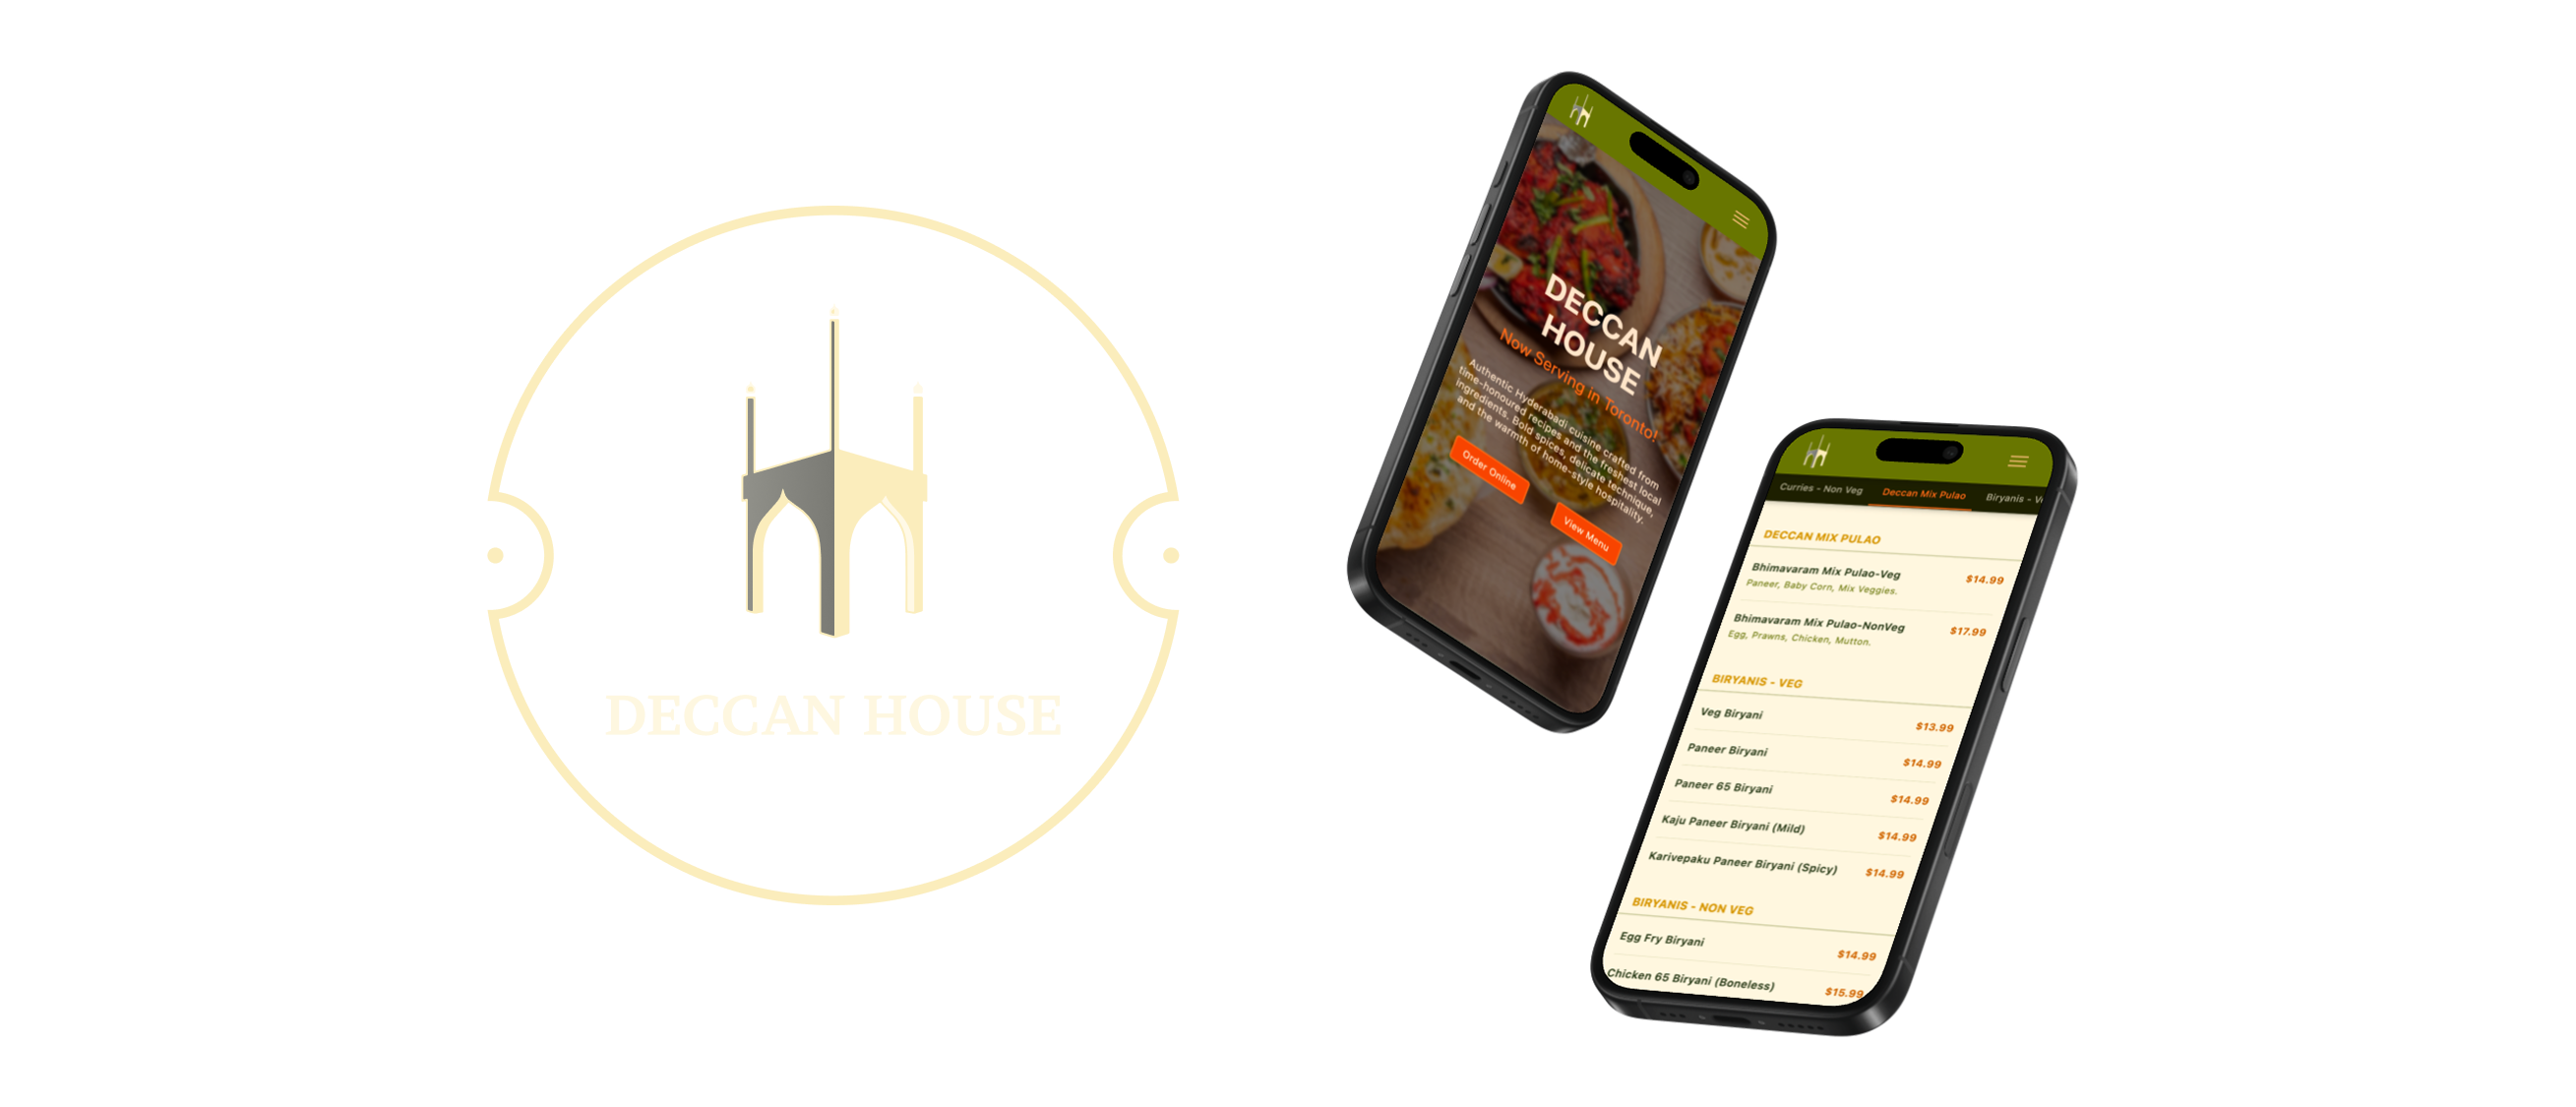
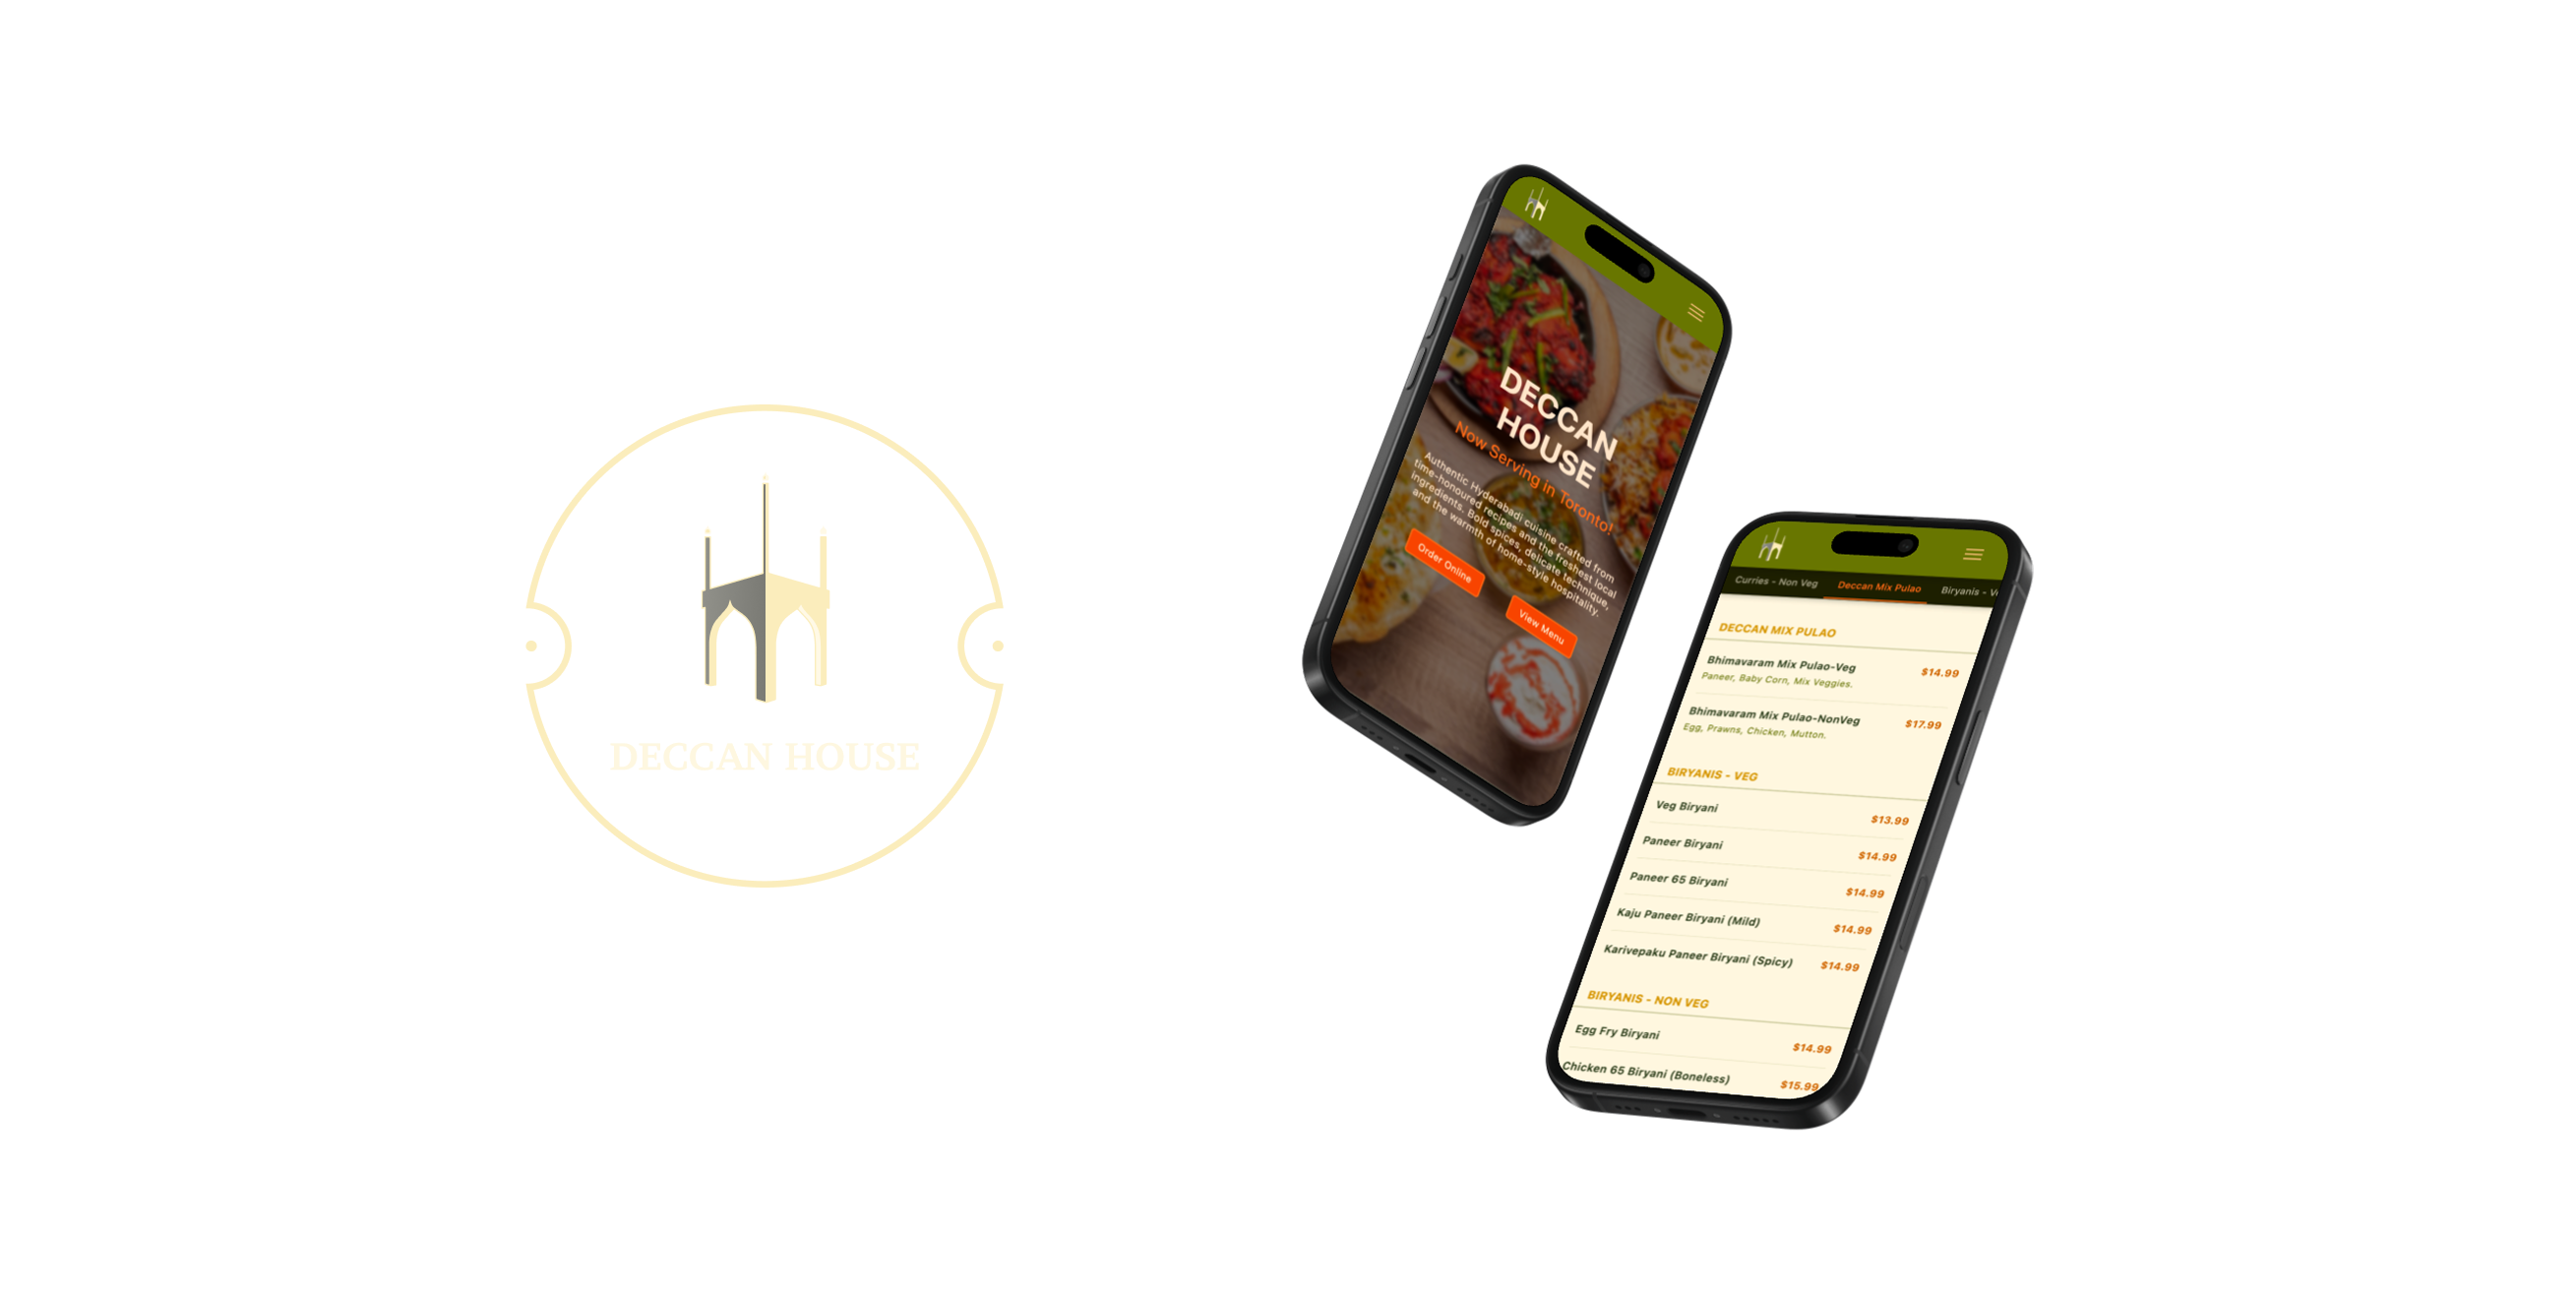
refactor: update Deccan House mockup image

diff --git a/src/app/components/case-study/primitives/Hero.tsx b/src/app/components/case-study/primitives/Hero.tsx
@@ -44,7 +44,7 @@ export function CaseStudyHero({ title, subtitle, role, timeline, tools, heroImag
         <ImageWithFallback
           src={heroImage}
           alt={title}
-          className={`w-full h-full ${heroBg ? "object-contain" : "object-cover"}`}
+          className={`w-full h-full object-cover`}
         />
       </motion.div>
 